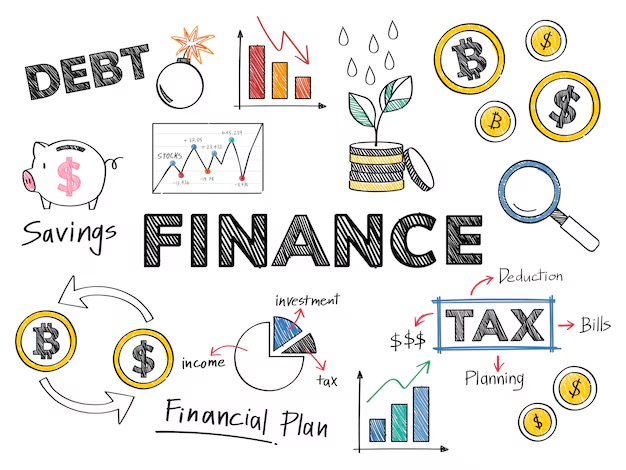
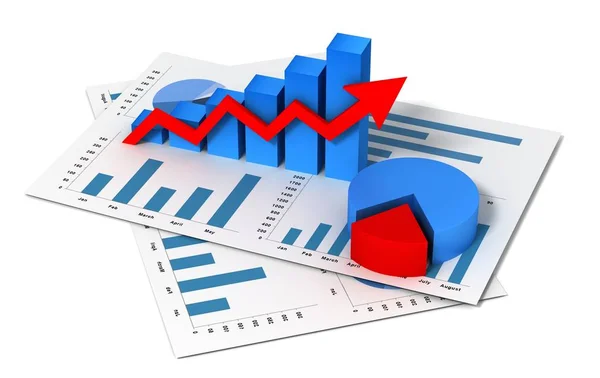
commit2

diff --git a/client/index.html b/client/index.html
@@ -2,7 +2,7 @@
 <html lang="en">
   <head>
     <meta charset="UTF-8" />
-    <link rel="icon" type="image/png" href="/favicon.png" />
+    <link rel="icon" type="image/png" href="/vite.svg" />
     <meta name="viewport" content="width=device-width, initial-scale=1.0" />
     <title>SmartSpend</title>
   </head>
